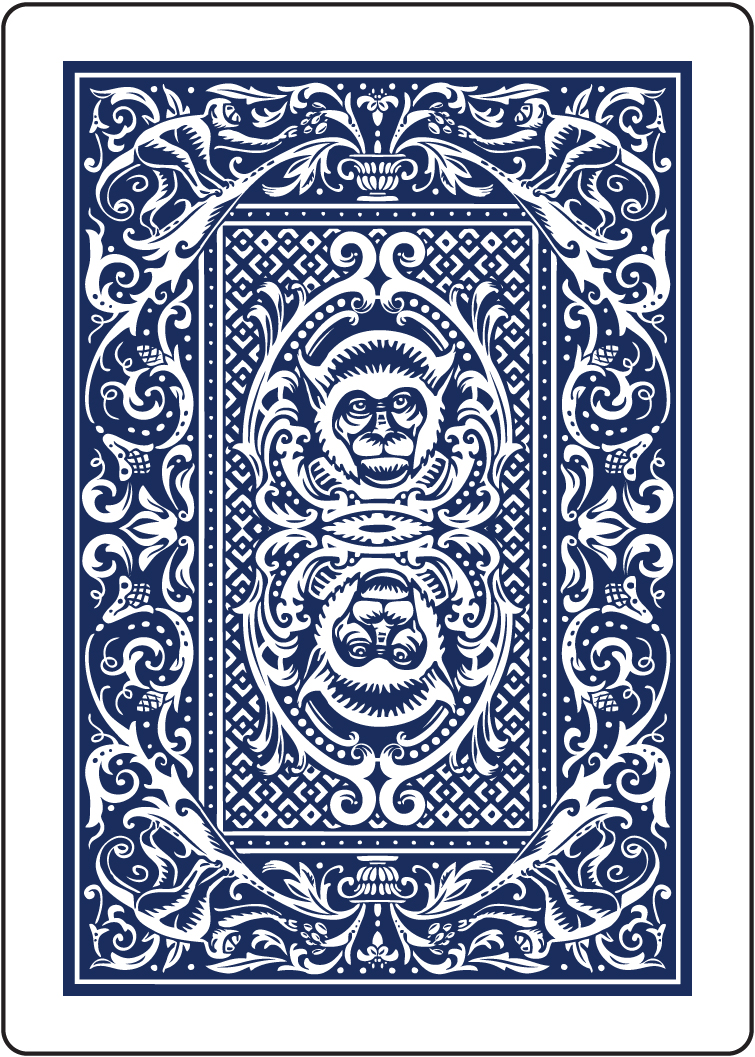
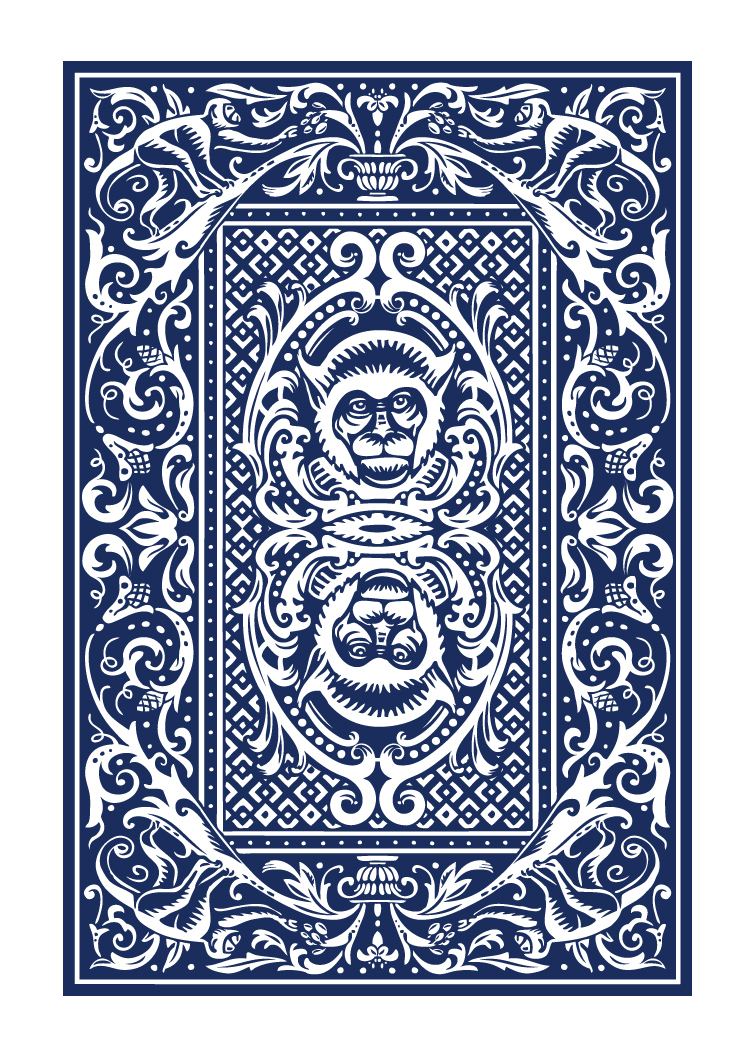
Подгоняем размер рубашки, коэфф = 0,71

Changed region(s): [[0.0, 0.0, 1.0, 0.9991]]

diff --git a/css/main.css b/css/main.css
@@ -7,16 +7,15 @@ body {}
   float: left;
   position: relative;
   margin-right: 10px;
-  width: 80px;
-  height: 120px;
+  width: 78px;
+  height: 110px;
   border-radius: 10px;
-  background: #fff;
   -webkit-box-shadow: 3px 3px 7px rgba(0,0,0,0.3);
   box-shadow: 3px 3px 7px rgba(0,0,0,0.3);
 }
 .card p {
   text-align: center;
-  font: 60px/120px Verdana, Georgia, Times New Roman, serif;
+  font: 60px/110px Verdana, Georgia, Times New Roman, serif;
 }
 .suitdiamonds:before, .suitdiamonds:after {
   content: "♦";
@@ -38,7 +37,8 @@ body {}
   color: #000;
 }
 .back {
-	background: url(images/back.jpg) black;
+	background: url(../images/back.jpg) no-repeat;
+	background-size: contain;
 }
 div[class*='suit']:before {
   position: absolute;
